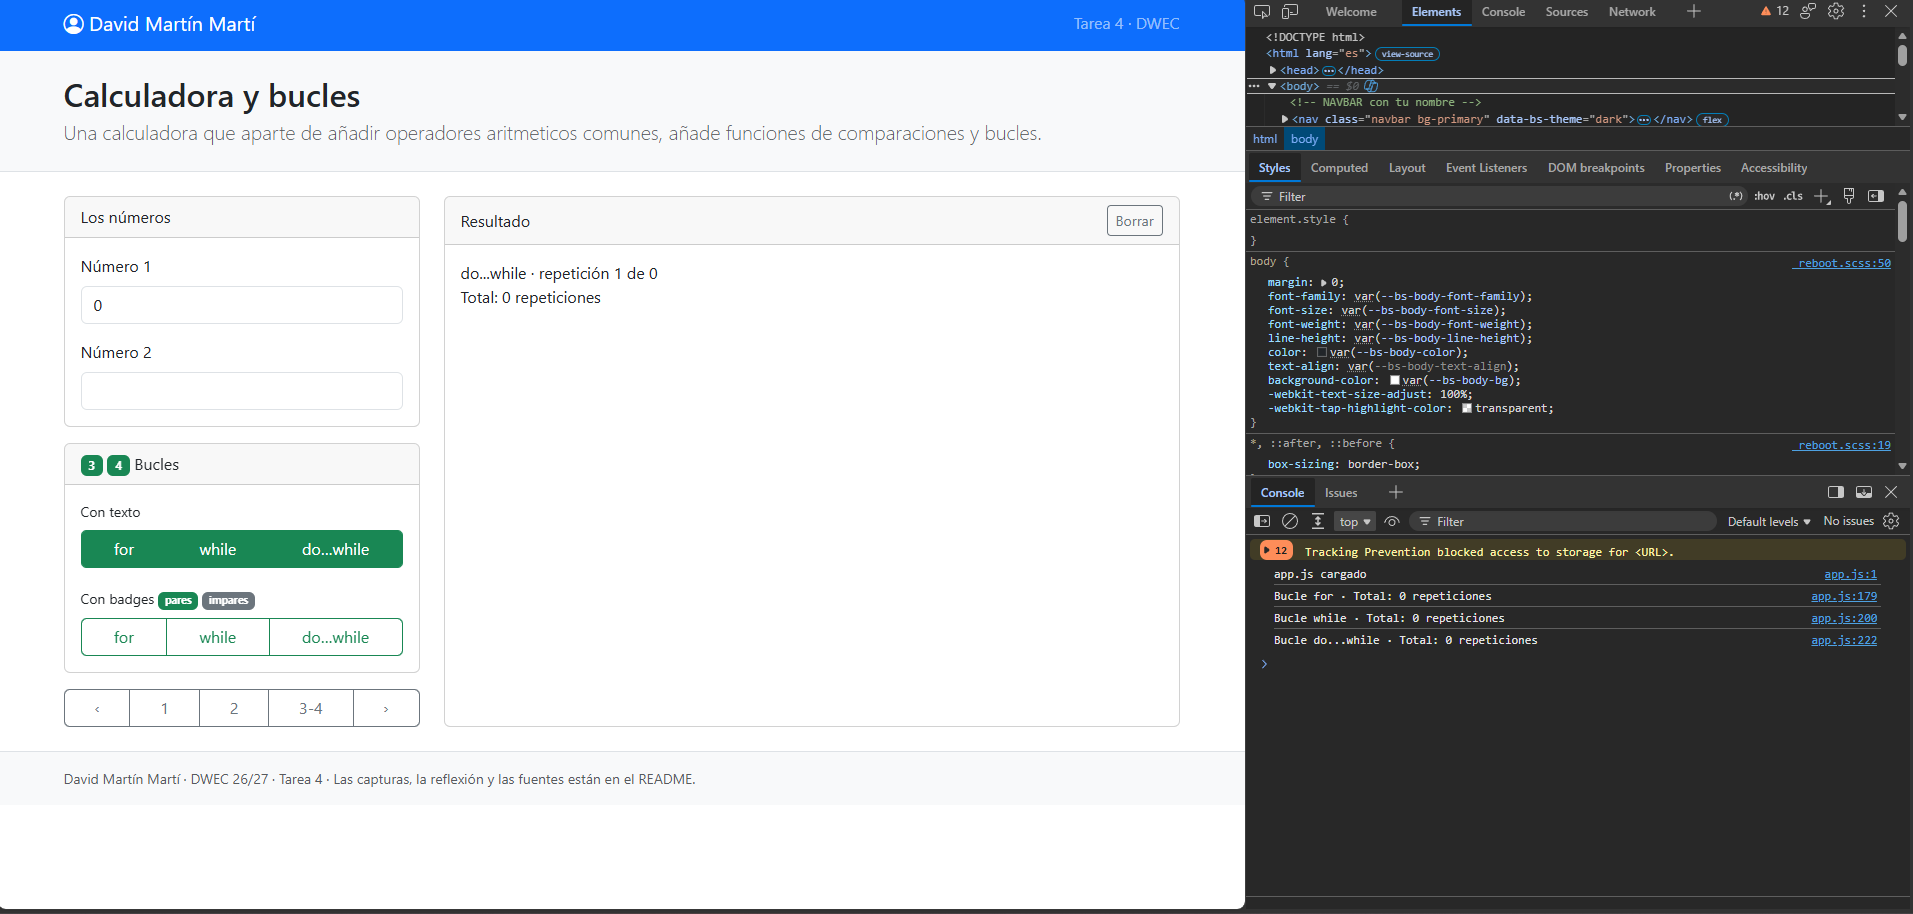
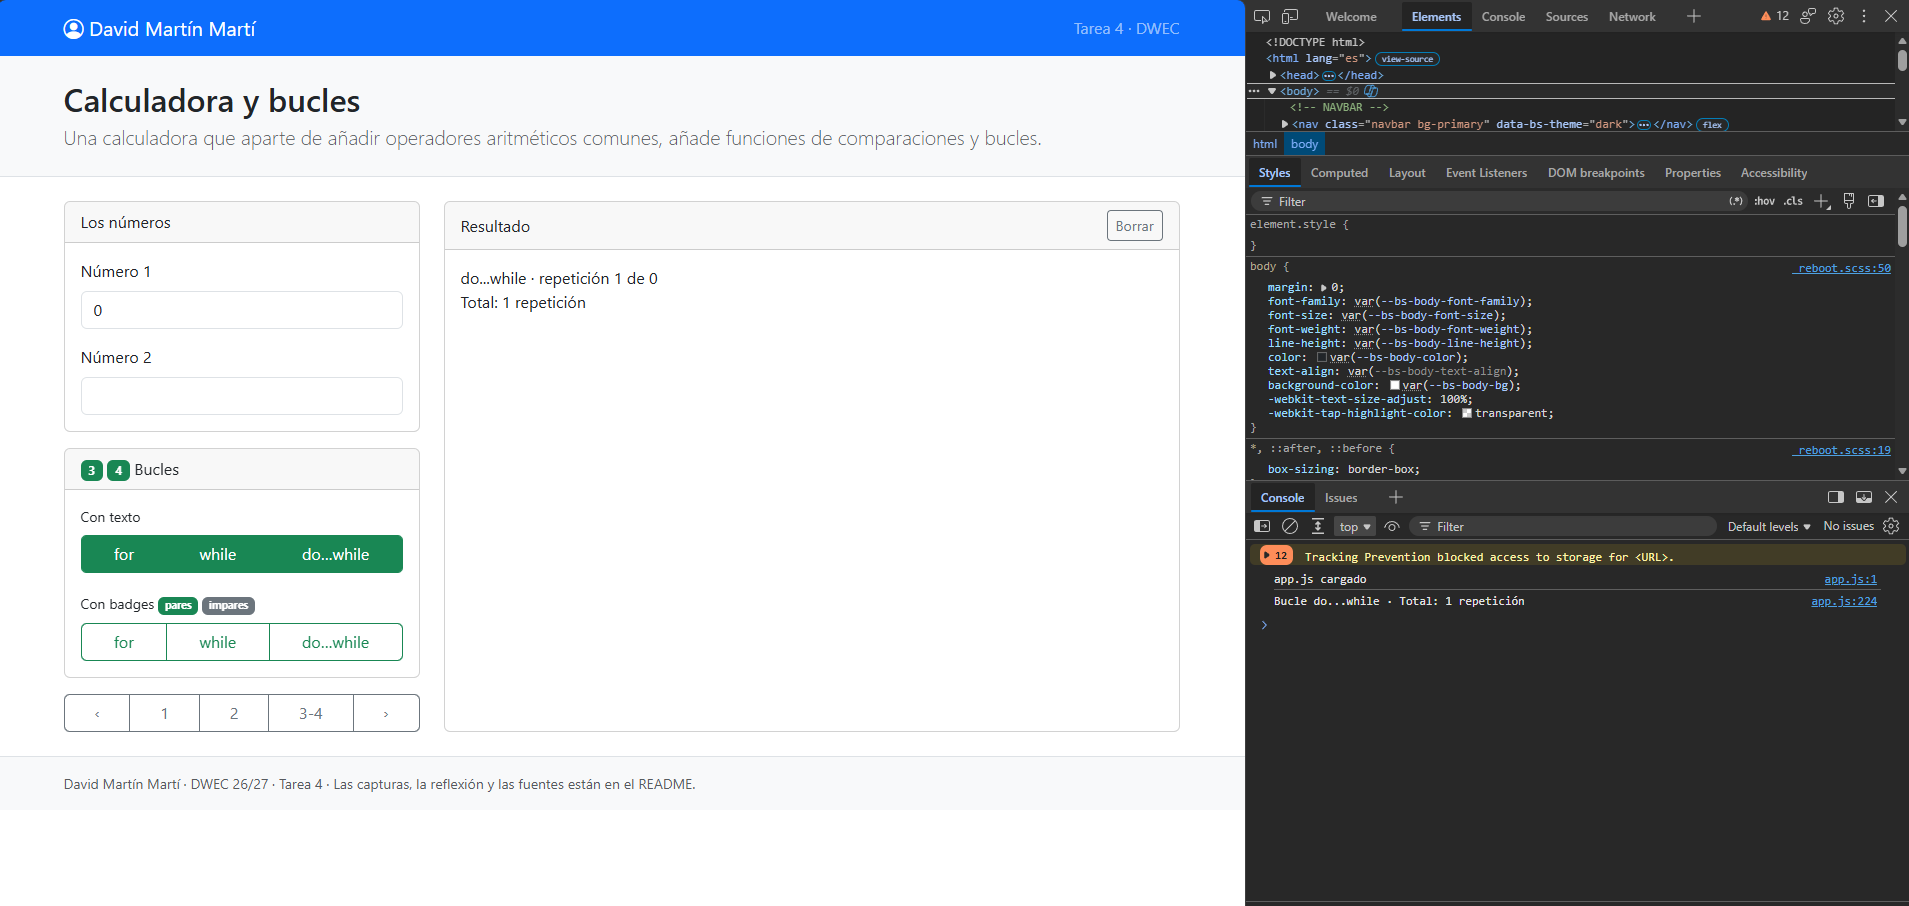
Últimos retoques

diff --git a/tema04/js/app.js b/tema04/js/app.js
@@ -171,11 +171,13 @@ function bucleFor() {
     mostrar("Error: El número uno falta, es decimal o se pasa del máximo de repeticiones (20).", "danger");
     console.warn(`Bucle for: Valor ${veces} no válido`);
   } else { // Si no, se hace bucle for con anadirLinea() y línea de total
+    let contador = 0;
     for(let i=1; i<=veces; i++){
-      anadirLinea(`for · repetición ${i} de ${veces}`);
+      contador++;
+      anadirLinea(`for · repetición ${contador} de ${veces}`);
     }
-    const total = `Total: ${veces} ${(veces!==1) ? "repeticiones" : "repetición"}`; // Total con ternario para comprobar si es singular o plural
-    anadirLinea(total);  
+    const total = `Total: ${contador} ${(contador!==1) ? "repeticiones" : "repetición"}`; // Total con ternario para comprobar si es singular o plural
+    anadirLinea(total);
     console.log(`Bucle for · ${total}`);
   }
 }
@@ -190,13 +192,13 @@ function bucleWhile() {
     mostrar("Error: El número uno falta, es decimal o se pasa del máximo de repeticiones (20).", "danger");
     console.warn(`Bucle while: Valor ${veces} no válido`);
   } else { // Si no, se hace bucle while con anadirLinea() y línea de total
-    let contador = 1;
-    while(contador <= veces) {
-      anadirLinea(`while · repetición ${contador} de ${veces}`);
+    let contador = 0;
+    while(contador < veces) {
       contador++;
+      anadirLinea(`while · repetición ${contador} de ${veces}`);
     }
-    const total = `Total: ${veces} ${(veces!==1) ? "repeticiones" : "repetición"}`; // Total con ternario para comprobar si es singular o plural
-    anadirLinea(total);  
+    const total = `Total: ${contador} ${(contador!==1) ? "repeticiones" : "repetición"}`; // Total con ternario para comprobar si es singular o plural
+    anadirLinea(total);
     console.log(`Bucle while · ${total}`);
   }
 }
@@ -211,14 +213,14 @@ function bucleDoWhile() {
     mostrar("Error: El número uno falta, es decimal o se pasa del máximo de repeticiones (20).", "danger");
     console.warn(`Bucle do...while: Valor ${veces} no válido`);
   } else { // Si no, se hace bucle do...while con anadirLinea() y línea de total
-    let contador = 1;
+    let contador = 0;
 
     do {
-      anadirLinea(`do...while · repetición ${contador} de ${veces}`);
       contador++;
-    } while(contador <= veces);
-    const total = `Total: ${veces} ${(veces!==1) ? "repeticiones" : "repetición"}`; // Total con ternario para comprobar si es singular o plural
-    anadirLinea(total);  
+      anadirLinea(`do...while · repetición ${contador} de ${veces}`);
+    } while(contador < veces);
+    const total = `Total: ${contador} ${(contador!==1) ? "repeticiones" : "repetición"}`; // Total con ternario para comprobar si es singular o plural
+    anadirLinea(total);
     console.log(`Bucle do...while · ${total}`);
   }
 }
@@ -238,11 +240,13 @@ function badgesFor() {
     mostrar("Error: El número uno falta, es decimal o se pasa del máximo de repeticiones (20).", "danger");
     console.warn(`Badges for: Valor ${veces} no válido`);
   } else { // Si no, se hace bucle for con anadirBadge() y línea de total
+    let contador = 0;
     for(let i=1; i<=veces; i++){
-      anadirBadge(i, (i%2===0) ? "success" : "secondary"); // Color escogido con ternario
+      contador++;
+      anadirBadge(contador, (contador%2===0) ? "success" : "secondary"); // Color escogido con ternario
     }
-    const total = `Total: ${veces} ${(veces!==1) ? "repeticiones" : "repetición"}`; // Total con ternario para comprobar si es singular o plural
-    anadirLinea(total);  
+    const total = `Total: ${contador} ${(contador!==1) ? "repeticiones" : "repetición"}`; // Total con ternario para comprobar si es singular o plural
+    anadirLinea(total);
     console.log(`Badges for · ${total}`);
   }
 }
@@ -257,13 +261,13 @@ function badgesWhile() {
     mostrar("Error: El número uno falta, es decimal o se pasa del máximo de repeticiones (20).", "danger");
     console.warn(`Badges while: Valor ${veces} no válido`);
   } else { // Si no, se hace bucle while con anadirBadge() y línea de total
-    let contador = 1;
-    while(contador <= veces) {
-      anadirBadge(contador, (contador%2===0) ? "success" : "secondary"); // Color escogido con ternario
+    let contador = 0;
+    while(contador < veces) {
       contador++;
+      anadirBadge(contador, (contador%2===0) ? "success" : "secondary"); // Color escogido con ternario
     }
-    const total = `Total: ${veces} ${(veces!==1) ? "repeticiones" : "repetición"}`; // Total con ternario para comprobar si es singular o plural
-    anadirLinea(total);  
+    const total = `Total: ${contador} ${(contador!==1) ? "repeticiones" : "repetición"}`; // Total con ternario para comprobar si es singular o plural
+    anadirLinea(total);
     console.log(`Badges while · ${total}`);
   }
 }
@@ -278,13 +282,13 @@ function badgesDoWhile() {
     mostrar("Error: El número uno falta, es decimal o se pasa del máximo de repeticiones (20).", "danger");
     console.warn(`Badges do...while: Valor ${veces} no válido`);
   } else { // Si no, se hace bucle do...while con anadirBadge() y línea de total
-    let contador = 1;
+    let contador = 0;
     do {
-      anadirBadge(contador, (contador%2===0) ? "success" : "secondary"); // Color escogido con ternario
       contador++;
-    } while(contador <= veces);
-    const total = `Total: ${veces} ${(veces!==1) ? "repeticiones" : "repetición"}`; // Total con ternario para comprobar si es singular o plural
-    anadirLinea(total);  
+      anadirBadge(contador, (contador%2===0) ? "success" : "secondary"); // Color escogido con ternario
+    } while(contador < veces);
+    const total = `Total: ${contador} ${(contador!==1) ? "repeticiones" : "repetición"}`; // Total con ternario para comprobar si es singular o plural
+    anadirLinea(total);
     console.log(`Badges do...while · ${total}`);
   }
 }

diff --git a/tema04/index.html b/tema04/index.html
@@ -12,7 +12,7 @@
 </head>
 <body>
 
-  <!-- NAVBAR con tu nombre -->
+  <!-- NAVBAR -->
   <nav class="navbar bg-primary" data-bs-theme="dark">
     <div class="container">
       <span class="navbar-brand"><i class="bi bi-person-circle"></i> David Martín Martí</span>
@@ -24,7 +24,7 @@
   <header class="bg-body-tertiary border-bottom py-4 mb-4">
     <div class="container">
       <h1 class="h2 mb-1">Calculadora y bucles</h1>
-      <p class="lead mb-0 text-body-secondary">Una calculadora que aparte de añadir operadores aritmeticos comunes, añade funciones de comparaciones y bucles.</p>
+      <p class="lead mb-0 text-body-secondary">Una calculadora que aparte de añadir operadores aritméticos comunes, añade funciones de comparaciones y bucles.</p>
     </div>
   </header>
 

diff --git a/tema04/README.md b/tema04/README.md
@@ -38,7 +38,7 @@ Con el número 1 en 7 pulso el `for` de badges: los pares salen en verde y los i
 
 ## Reflexión
 
-El `for` junta inicio, condición y avance en una línea, así que lo uso cuando sé cuántas vueltas daré. El `while` comprueba la condición antes de cada vuelta, por lo que puede no ejecutarse nunca; lo usaría cuando no sé cuántas vueltas habrá. El `do…while` ejecuta el cuerpo y comprueba después, así que siempre da al menos una vuelta; lo usaría cuando algo debe hacerse una vez como mínimo. El 0 lo demuestra: con 0 (o con un negativo), `for` y `while` dan 0 vueltas, pero `do…while` da 1, porque entra antes de comprobar `contador <= veces`.
+El `for` junta inicio, condición y avance en una línea, así que lo uso cuando sé cuántas vueltas daré. El `while` comprueba la condición antes de cada vuelta, por lo que puede no ejecutarse nunca; lo usaría cuando no sé cuántas vueltas habrá. El `do…while` ejecuta el cuerpo y comprueba después, así que siempre da al menos una vuelta; lo usaría cuando algo debe hacerse una vez como mínimo. El 0 lo demuestra: con 0 (o con un negativo), `for` y `while` dan 0 vueltas, pero `do…while` da 1, porque entra antes de comprobar `contador < veces`.
 
 ## Fuentes
 
@@ -46,4 +46,4 @@ El `for` junta inicio, condición y avance en una línea, así que lo uso cuando
 
 ## Uso de IA
 
-Usé Claude (Anthropic) como ayuda para plantear el carrusel de cards, ajustar las cajas a móvil, igualar la altura de las diferentes cards del carrusel, y a redactar un borrador de este README que posteriormente retoque y adapté.
+Usé Claude (Anthropic) como ayuda para plantear el carrusel de cards, ajustar las cajas a móvil, igualar la altura de las diferentes cards del carrusel, y a redactar un borrador de este README que posteriormente retoqué y adapté. También me hizo una revisión de la práctica para ver errores que tenía.
